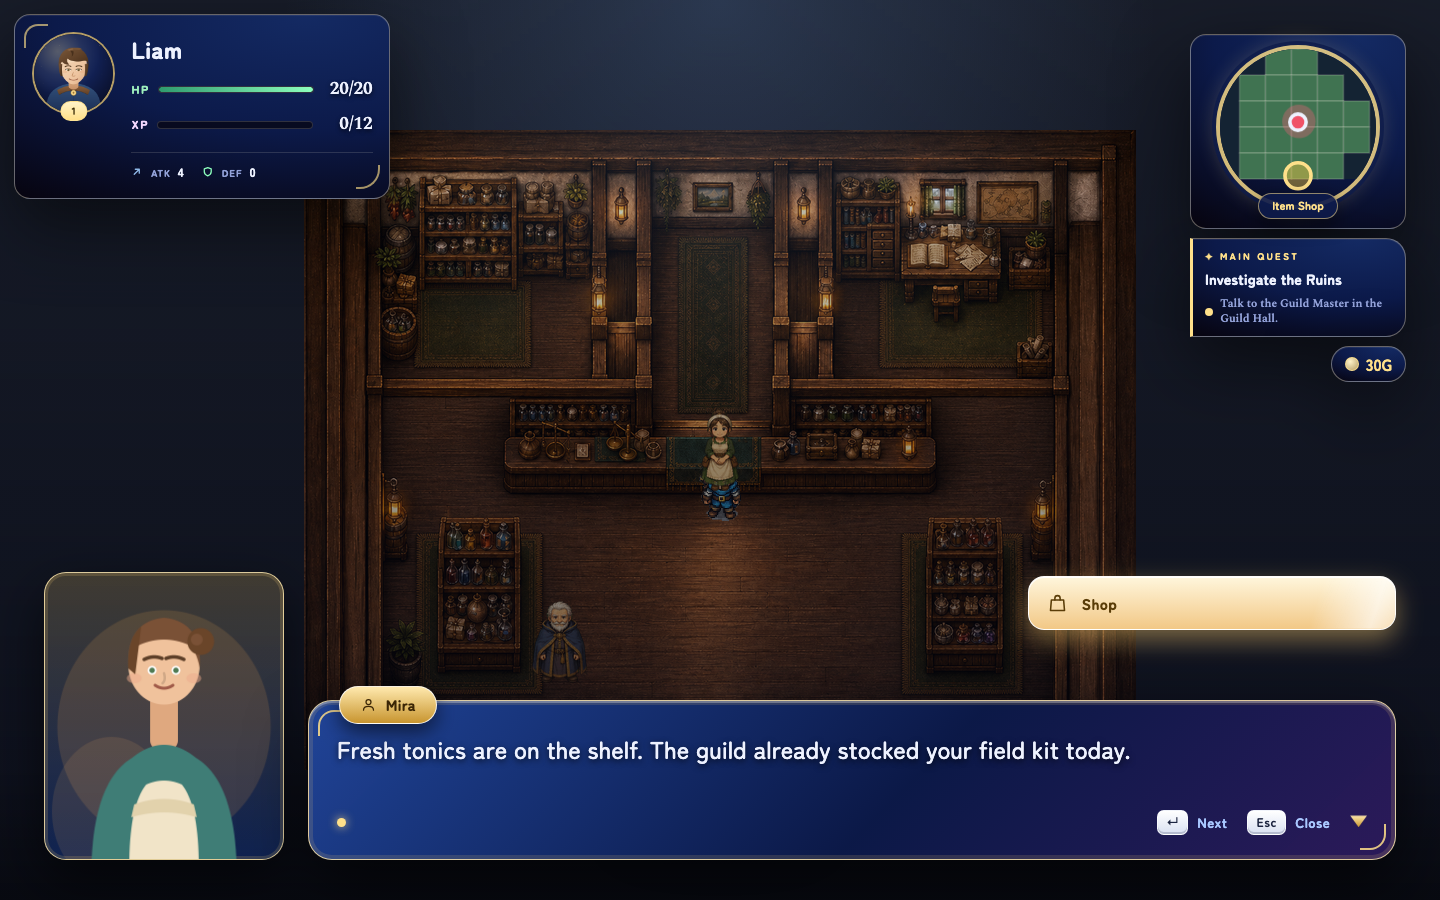
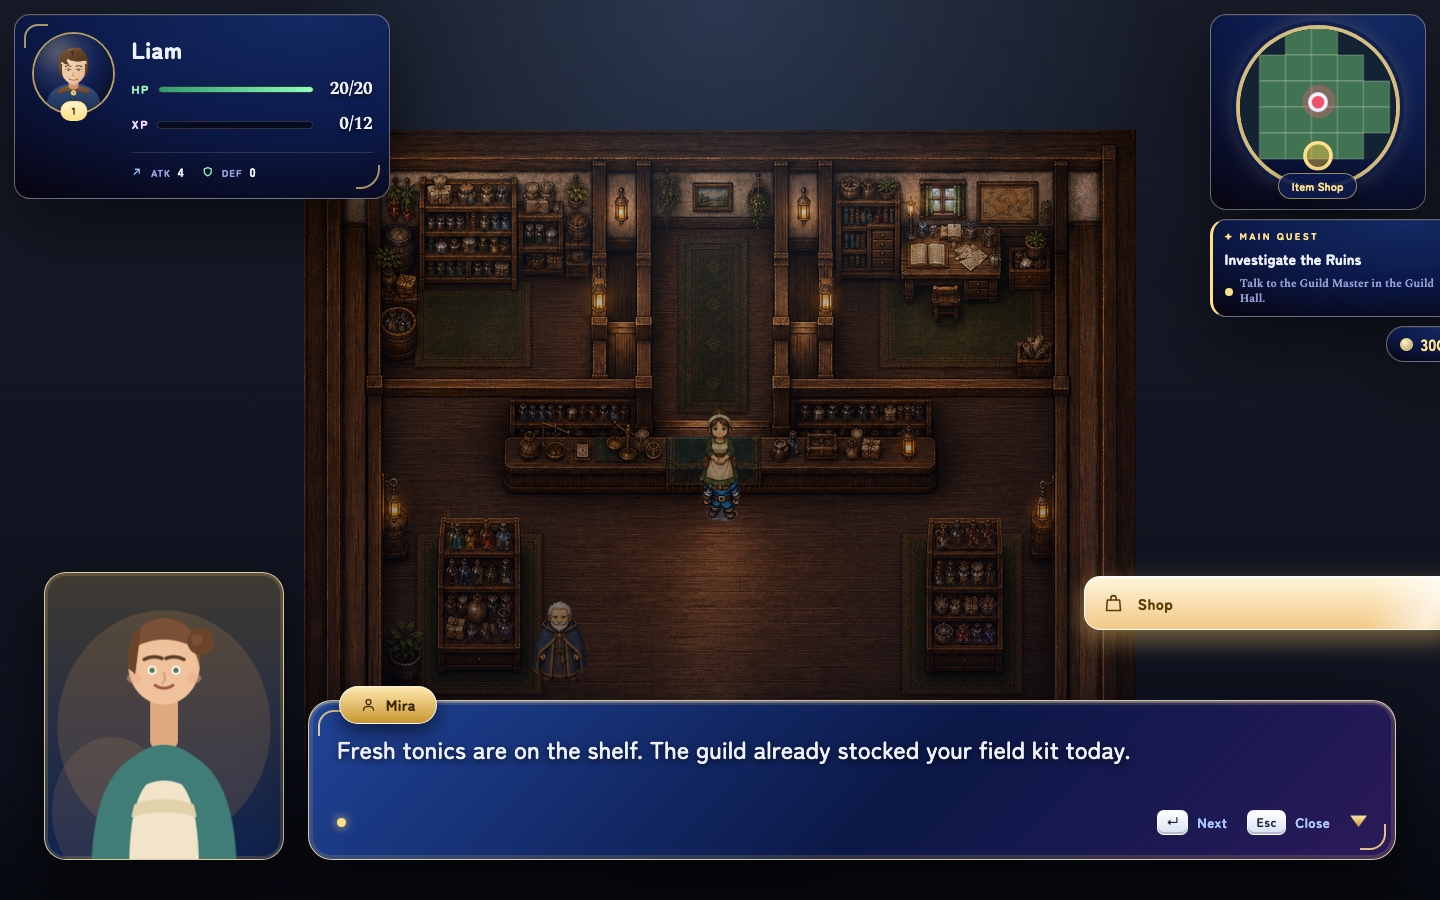
fix: restore edge-bleed HUD geometry per pixel-diff re-export
The pixel-diff re-export re-established the committed source PNGs as
faithful renders of the mockup artboards, and they show edge-bleed
composition: field quest banner + coin pill clipped at x=1440, dialogue
choice rows clipped at the right edge. Revert 084e4fdd's inset
re-interpretation (which a CSS grep that matched overridden rules
produced):

- FieldHud: side column back to top/right 0.9rem; quest banner and
  wallet pill bleed via margin-right -2.2rem with square right corners
- DialoguePanel: choice column back to right -3.5rem, rows 1rem 0 0 1rem
- DialoguePanel spec: bleed assertions restored (right beyond panel edge
  and past innerWidth)

Kept from 084e4fdd: shell overflow fallback, bracket radius asymmetry,
CommandGrid tints, title sparkle stroke var. Recaptured 02-field and
06-dialogue; both now clip flush at the right edge like the source.

Changed region(s): [[0.8125, 0.0, 1.0, 0.4356], [0.6875, 0.6222, 0.8125, 0.7467], [0.9062, 0.6222, 1.0, 0.7467]]

diff --git a/src/lib/game/ui/FieldHud.svelte b/src/lib/game/ui/FieldHud.svelte
@@ -444,10 +444,8 @@
 	/* ---- Right column: minimap medallion / quest banner / wallet ------- */
 	.heroic-side-hud {
 		position: absolute;
-		/* Mockup side column: top:34px; right:34px; align-items:flex-end —
-		   fully inset, nothing bleeds past the viewport. */
-		top: 2.125rem;
-		right: 2.125rem;
+		top: 0.9rem;
+		right: 0.9rem;
 		z-index: 20;
 		display: grid;
 		justify-items: stretch;
@@ -547,8 +545,10 @@
 
 	/* ---- Main quest banner --------------------------------------------- */
 	.quest-banner {
-		/* Mockup card: square LEFT corners (gold tab edge), rounded RIGHT. */
-		border-radius: 0 1.25rem 1.25rem 0;
+		/* Mockup bleeds the banner off the right viewport edge. */
+		margin-right: -2.2rem;
+		border-top-right-radius: 0;
+		border-bottom-right-radius: 0;
 		border-left: 3px solid var(--color-gold);
 		padding: 0.6rem 0.75rem;
 	}
@@ -603,7 +603,9 @@
 	/* ---- Wallet pill ---------------------------------------------------- */
 	.wallet-pill {
 		justify-self: end;
-		border-radius: 999px;
+		/* Mockup bleeds the coin pill off the right viewport edge. */
+		margin-right: -2.2rem;
+		border-radius: 999px 0 0 999px;
 		display: inline-flex;
 		align-items: center;
 		gap: 0.45rem;

diff --git a/src/lib/game/DialoguePanel.svelte.spec.ts b/src/lib/game/DialoguePanel.svelte.spec.ts
@@ -283,12 +283,12 @@ describe('DialoguePanel.svelte', () => {
 			const rowBounds = firstRow!.getBoundingClientRect();
 
 			// Mockup: column bottom sits 270px above the viewport floor with the
-			// panel floor at 40px -> 230px above the panel floor; rows are fully
-			// contained in the viewport, right-aligned to the panel's 44px
-			// gutter; rows are 23rem (368px) wide.
+			// panel floor at 40px -> 230px above the panel floor; rows bleed off
+			// the right viewport edge past the panel's 44px gutter; rows are
+			// 23rem (368px) wide.
 			expect(panelBounds.bottom - choicesBounds.bottom).toBeCloseTo(230, -1);
-			expect(choicesBounds.right).toBeCloseTo(panelBounds.right, 0);
-			expect(choicesBounds.right).toBeLessThan(window.innerWidth);
+			expect(choicesBounds.right).toBeGreaterThan(panelBounds.right);
+			expect(choicesBounds.right).toBeGreaterThan(window.innerWidth);
 			expect(choicesBounds.bottom).toBeLessThan(barBounds.top);
 			// 23rem design width (sub-percent rendering drift tolerated).
 			expect(rowBounds.width).toBeLessThanOrEqual(368.5);

diff --git a/src/lib/game/DialoguePanel.svelte b/src/lib/game/DialoguePanel.svelte
@@ -234,10 +234,9 @@
 	   Anchored inside the panel so taller choice lists grow upward. */
 	.jrpg-dialogue-choices {
 		position: absolute;
-		/* Mockup: right:44px; bottom:270px viewport-relative — the column's
-		   right edge aligns with the panel's own 2.75rem (44px) gutter, and
-		   230px above the panel floor (2.5rem) lands 270px above the viewport. */
-		right: 0;
+		/* Mockup: rows bleed off the right viewport edge (the panel itself is
+		   inset 2.75rem, so push the menu out past it). */
+		right: -3.5rem;
 		bottom: 14.375rem;
 		display: grid;
 		justify-content: end;
@@ -253,7 +252,7 @@
 		width: min(23rem, 80vw);
 		padding: 0.9rem 1.1rem;
 		border: 1px solid rgba(160, 200, 255, 0.26);
-		border-radius: 1rem;
+		border-radius: 1rem 0 0 1rem;
 		text-align: left;
 		color: #e2ecff;
 		font-family: var(--font-display);
